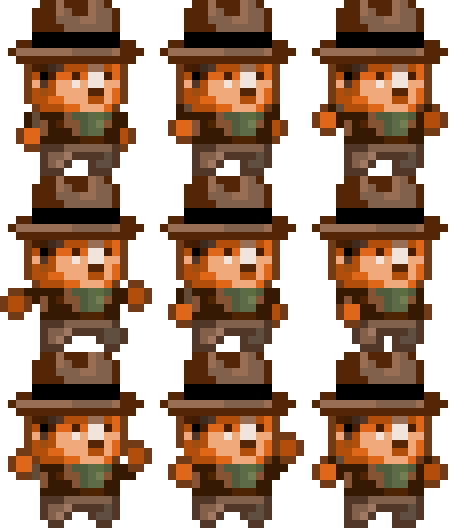
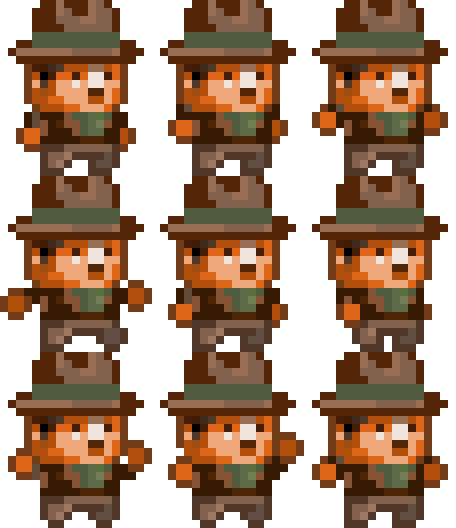
Colours now correct

diff --git a/game-source-code/GameManager.cpp b/game-source-code/GameManager.cpp
@@ -10,8 +10,8 @@ GameManager::GameManager():
     playingRenderer{gameWidth, gameHeight},
     victoryRenderer{gameWidth, gameHeight},
     defeatRenderer{gameWidth, gameHeight},
-    score{gameWidth, gameHeight},
-    temperature{gameWidth, gameHeight}
+    temperature{gameWidth, gameHeight},
+    score{gameWidth, gameHeight}
 {
     //Window
     window.setView(sf::View(sf::FloatRect(0.0f, 0.0f, gameWidth, gameHeight)));
@@ -160,9 +160,18 @@ void GameManager::update()
             for(auto& player: players)
             {
                 player.update(deltaTime);
-                temperature.update(player, &burntJackText, deltaTime);
-                collisionDetector.update(player, &deadJackText, platforms, &logText, &whiteLogText, tents.at(count), score, gameSounds);
-                enemyCollisionDetector.update(player, &deadJackText, enemies, kangaroo);
+                if(player.playerNum == 1)
+                {
+                    temperature.update(player, &burntJackText, deltaTime);
+                    collisionDetector.update(player, &deadJackText, platforms, &logText, &whiteLogText, tents.at(count), score, gameSounds);
+                    enemyCollisionDetector.update(player, &deadJackText, enemies, kangaroo);
+                }
+                else
+                {
+                    temperature.update(player, &burntJackTextRed, deltaTime);
+                    collisionDetector.update(player, &deadJackTextRed, platforms, &logText, &whiteLogText, tents.at(count), score, gameSounds);
+                    enemyCollisionDetector.update(player, &deadJackTextRed, enemies, kangaroo);
+                }
                 pointCollisionDetector.update(player, score, fishRow, gameSounds);
                 count += 1;
             }
@@ -223,7 +232,10 @@ void GameManager::resetGame()
     auto num = 1;
     for(auto& player : players)
     {
-        player = Jack{&jackSpritesheetText, sf::Vector2u(3, 3), 0.2f, 600.0f, num};
+        if(num == 1)
+            player = Jack{&jackSpritesheetText, sf::Vector2u(3, 3), 0.2f, 600.0f, num};
+        else
+            player = Jack{&jackSpritesheetTextRed, sf::Vector2u(3, 3), 0.2f, 600.0f, num};
         num += 1;
     }
     kangaroo = Kangaroo(&kangarooSpritesheetText, sf::Vector2u{3,1}, 0.3f, 200.0f);

diff --git a/game-source-code/Score.cpp b/game-source-code/Score.cpp
@@ -34,7 +34,7 @@ Score::Score(const float gameWidth, const float gameHeight):
         if(count == 0)
             point.setPosition(gameWidth/4.75, gameHeight/2 - 8.15*point.getCharacterSize());
         else
-            point.setPosition(1850, gameHeight/2 - 8.15*point.getCharacterSize());//1712.43
+            point.setPosition(1800, gameHeight/2 - 8.15*point.getCharacterSize());//1712.43
         count += 1;
     }
 
@@ -58,7 +58,7 @@ Score::Score(const float gameWidth, const float gameHeight):
         if(count == 0)
             label.setPosition(gameWidth/9.25 , gameHeight/2 - 8*label.getCharacterSize());
         else
-            label.setPosition(gameWidth/1.16, gameHeight/2 - 8*label.getCharacterSize());//1515.79
+            label.setPosition(1605, gameHeight/2 - 8*label.getCharacterSize());//1515.79
         count += 1;
     }
 

diff --git a/game-source-code/GameManager.h b/game-source-code/GameManager.h
@@ -65,6 +65,7 @@ class GameManager
         sf::SoundBuffer jumpSoundBuf, landSoundBuf, victorySoundBuf, gameOverSoundBuf, fishSoundBuf, tempScoreSoundBuf;
         GameSounds gameSounds;
         sf::Texture jackSpritesheetText, deadJackText, burntJackText, logText, whiteLogText;
+        sf::Texture jackSpritesheetTextRed, deadJackTextRed, burntJackTextRed;
         vector<Jack> players;
         sf::Texture kangarooSpritesheetText;
         Kangaroo kangaroo;

diff --git a/game-source-code/Jack.cpp b/game-source-code/Jack.cpp
@@ -9,7 +9,10 @@ Jack::Jack(sf::Texture* texture, sf::Vector2u frameCount, float switchTime, floa
     this->playerNum = playerNum;
     frameRow = 0; //idle animation
     victory = false;
-    facingRight = true;
+    if(playerNum == 1)
+        facingRight = true;
+    else
+        facingRight = false;
     isAlive = true;
     gameRow = 1; //safe zone
     isJumping = false;
